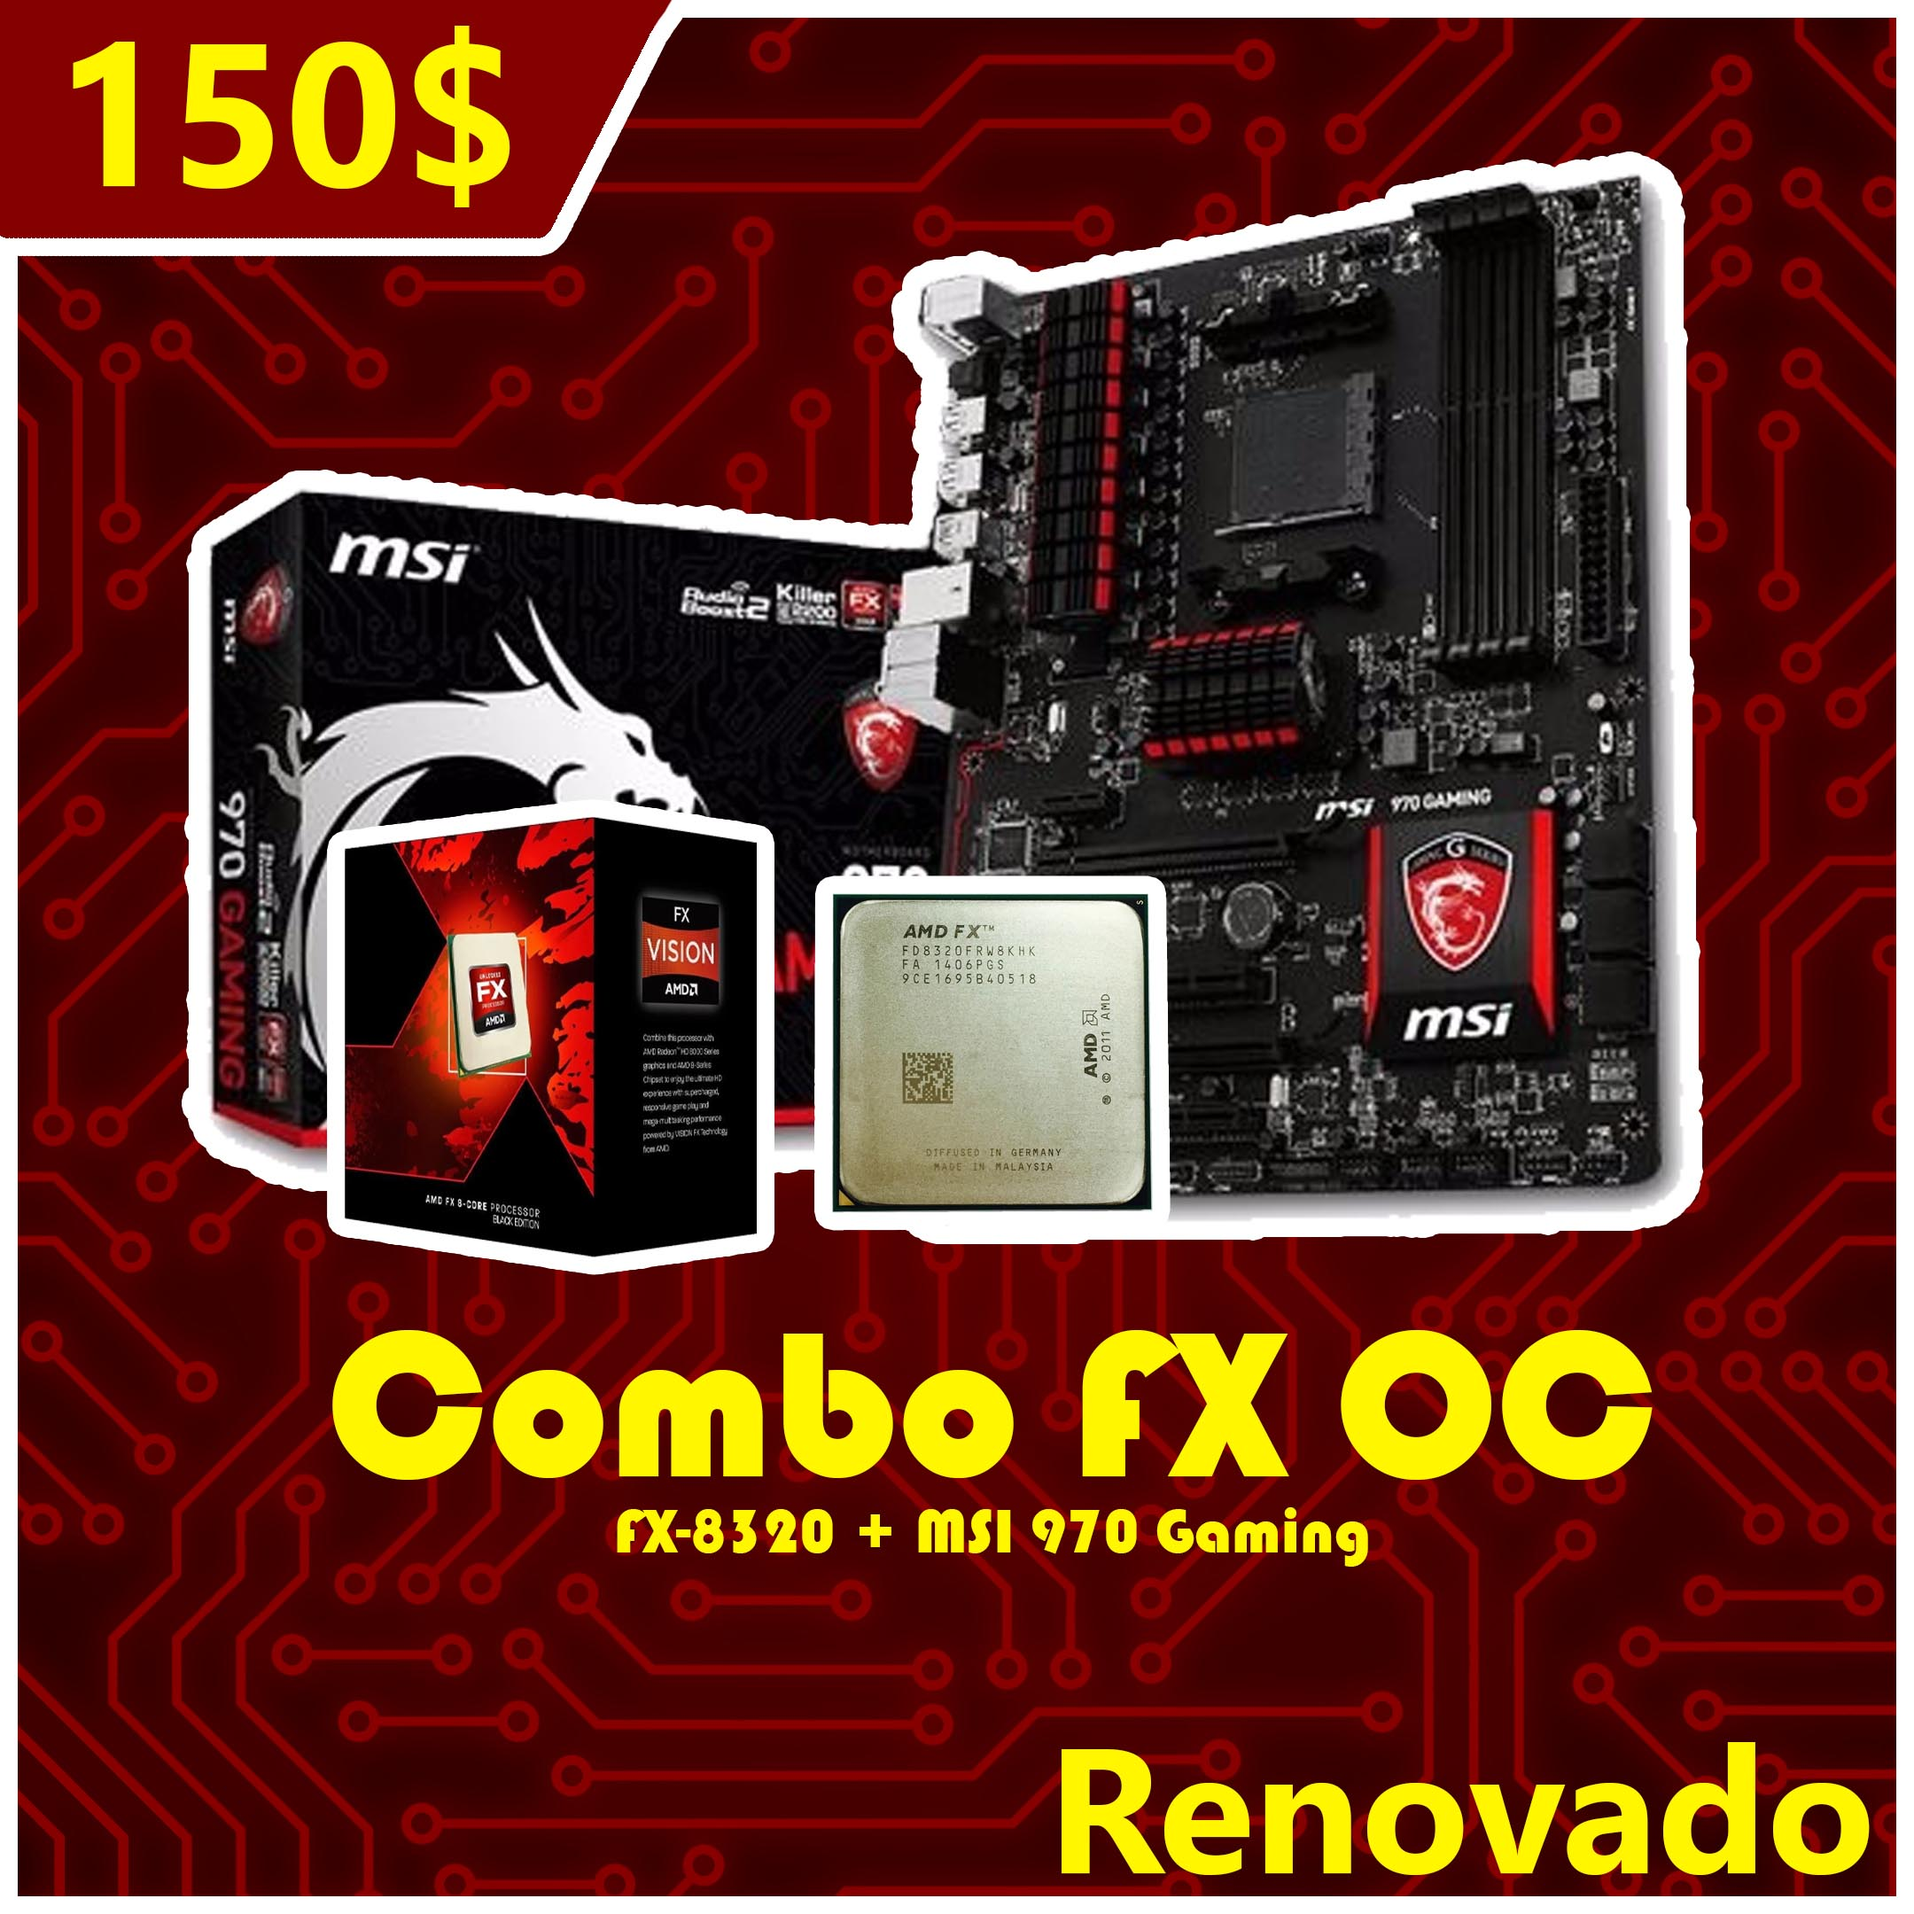
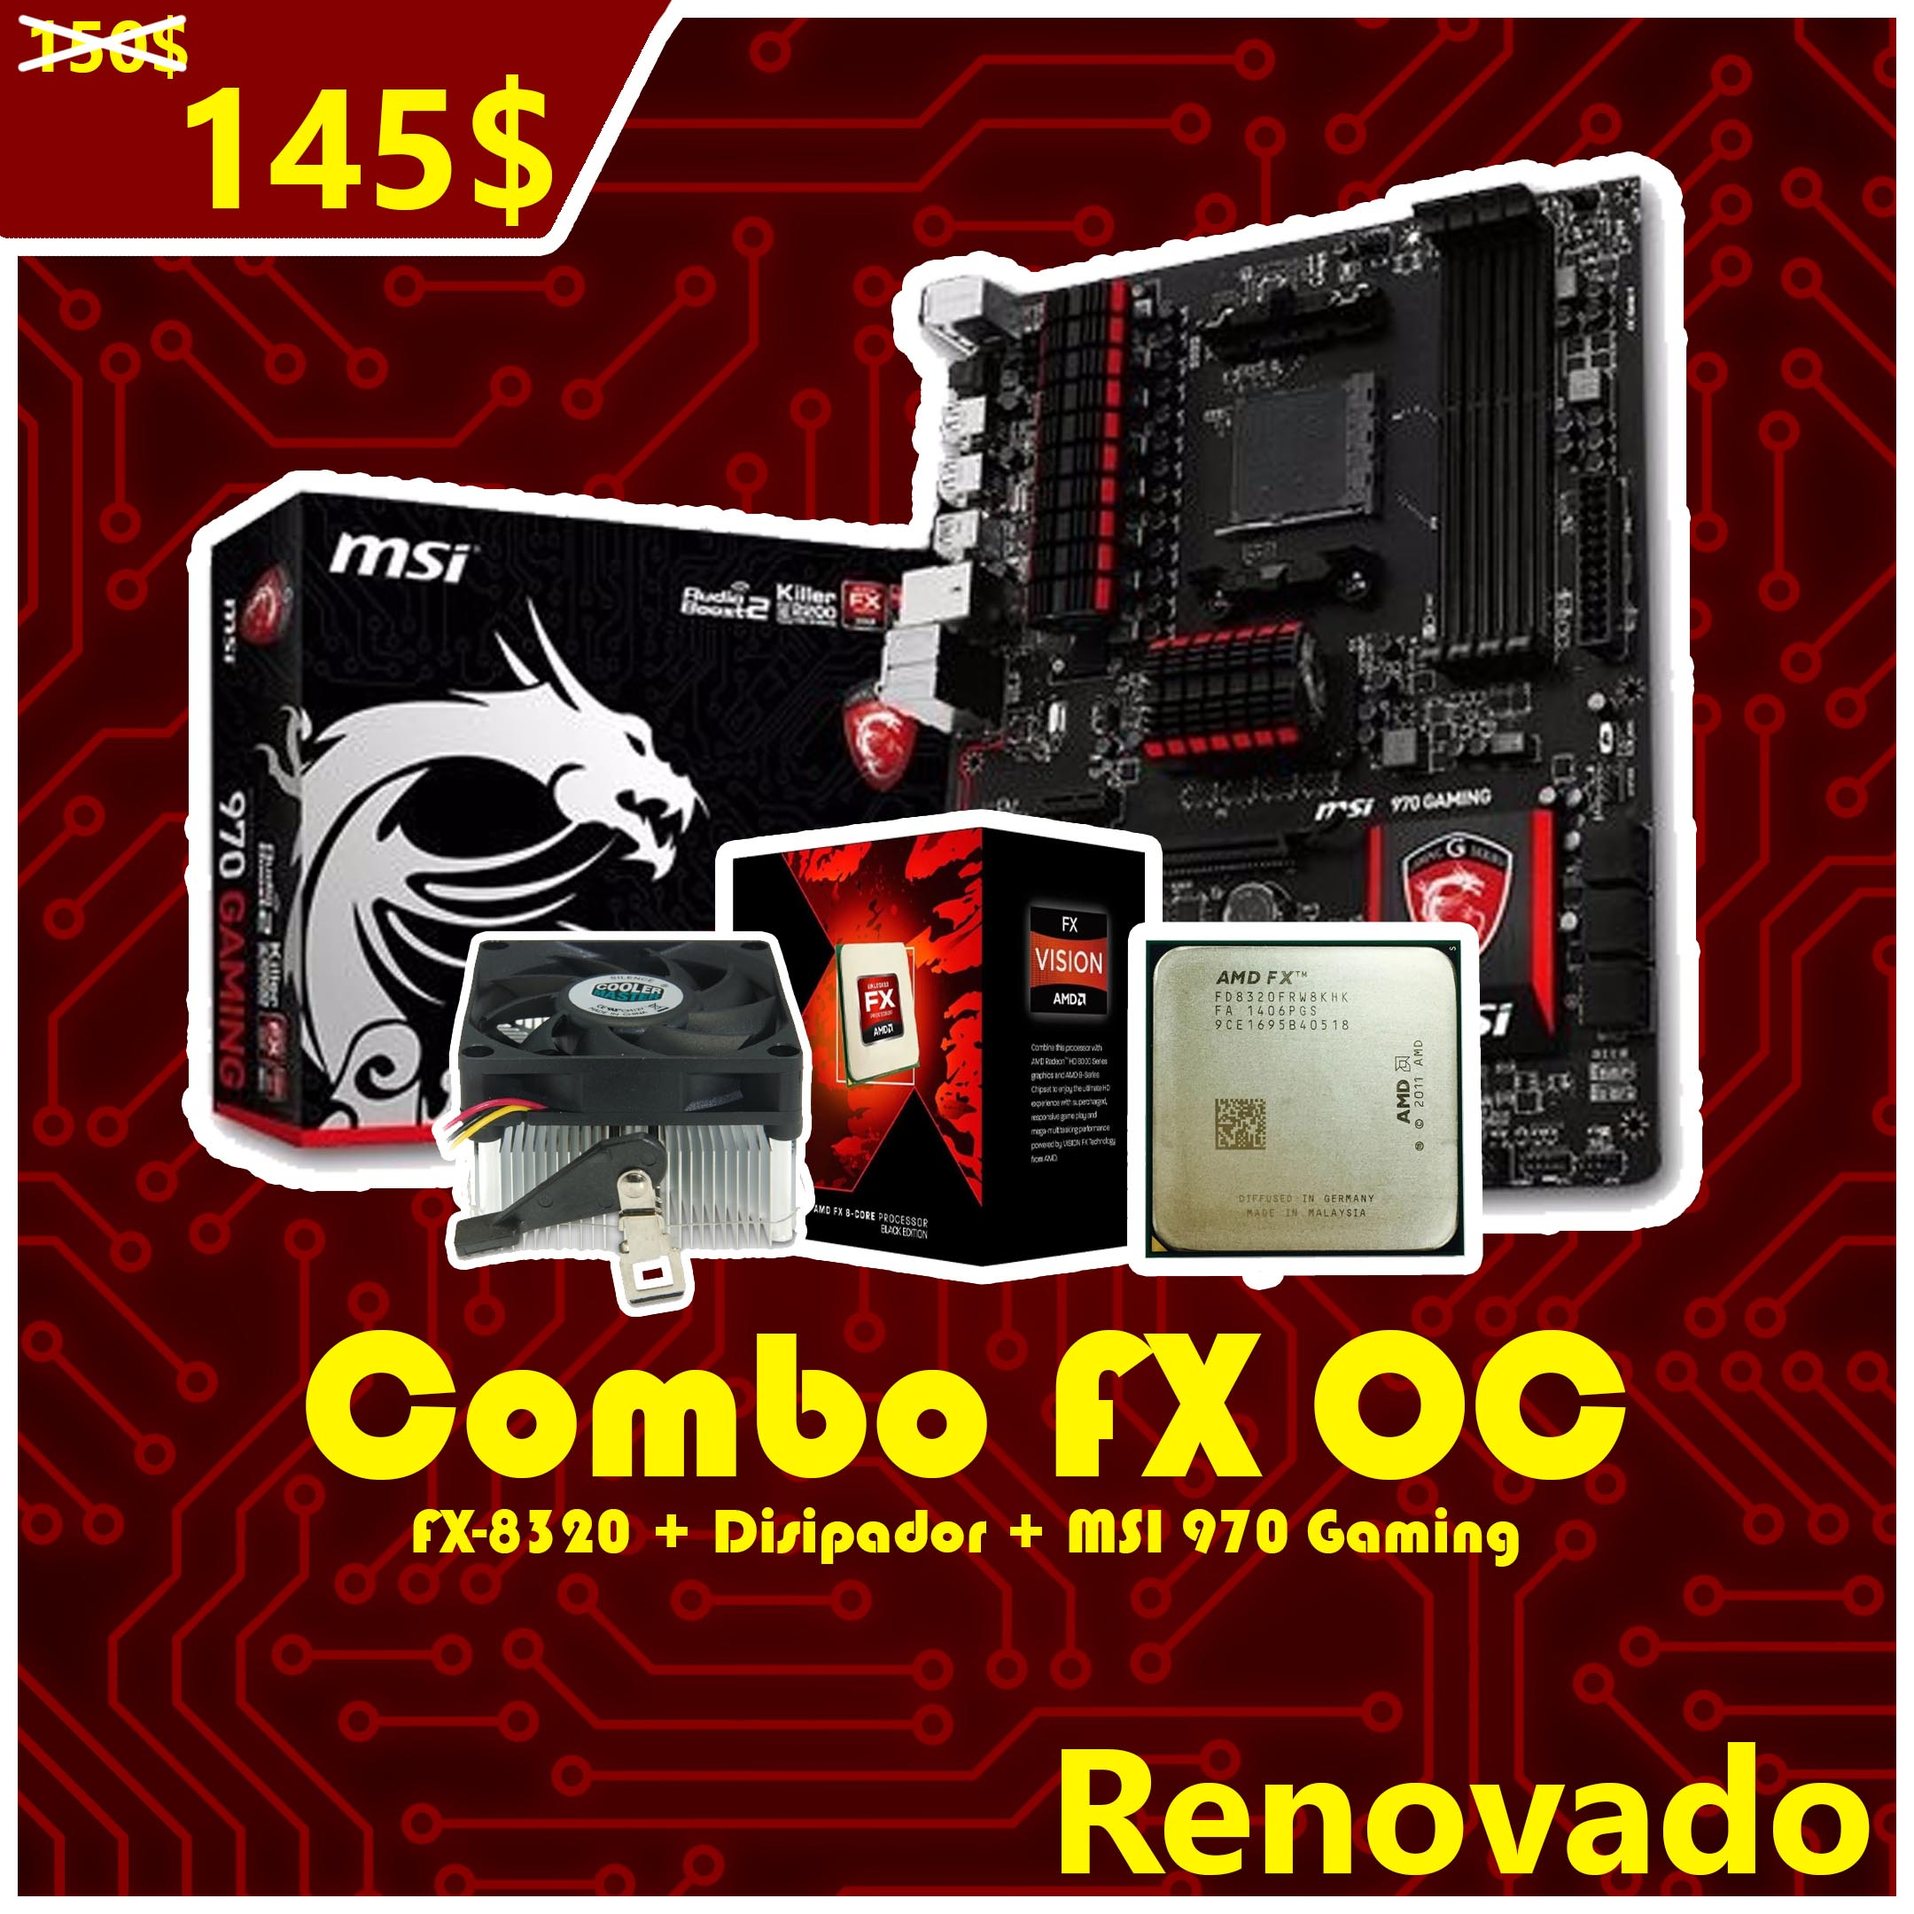
Add files via upload

Changed region(s): [[0.1551, 0.4032, 0.8685, 0.8375], [0.0, 0.0, 0.3102, 0.1241]]

diff --git a/tienda.html b/tienda.html
@@ -43,9 +43,9 @@
         </div>
 
         <div class="col-md-3">
-          <a class="portfolio-item" style="background-image: url(img/portfolio-2.11.jpg);" href="https://www.facebook.com/marketplace/item/4824779864293334/">
+          <a class="portfolio-item" style="background-image: url(img/portfolio-2.11.jpg);" href="https://www.facebook.com/marketplace/item/584427409969789/">
             <div class="details">
-              <h4>Combo FX + MSI 970 + 8GB RAM (190$)</h4>
+              <h4>Combo FX + MSI 970 + 8GB RAM (185$)</h4>
               <span>FX-8320 @3.5GHz 8-Core</span>
               <span>MSI 970 Gaming</span>
               <span>8GB RAM DDR3 1333MHz</span>
@@ -55,9 +55,9 @@
         </div>
 
         <div class="col-md-3">
-          <a class="portfolio-item" style="background-image: url(img/portfolio-2.1.jpg);" href="https://wa.me/p/4929994107099490/584245022292">
+          <a class="portfolio-item" style="background-image: url(img/portfolio-2.1.jpg);" href="https://www.facebook.com/marketplace/item/1013762535952788/">
             <div class="details">
-              <h4>Combo FX + MSI 970(150$)</h4>
+              <h4>Combo FX + MSI 970 (145$)</h4>
               <span>FX-8320 @3.5GHz 8-Core</span>
               <span>MSI 970 Gaming</span>
               <span>Incluye cajas y accesorios</span>
@@ -73,7 +73,7 @@
         </div>
 
         <div class="col-md-3">
-          <a class="portfolio-item" style="background-image: url(img/portfolio-2.jpg);" href="https://wa.me/message/VRY6V5JWBTQNH1">
+          <a class="portfolio-item" style="background-image: url(img/portfolio-2.jpg);" href="https://www.facebook.com/marketplace/item/1234830707345823/">
             <div class="details">
               <h4>Pentium G620 (7$)</h4>
               <span>Socket LGA1155</span>
@@ -92,7 +92,7 @@
         </div>
 
         <div class="col-md-3">
-          <a class="portfolio-item" style="background-image: url(img/portfolio-3.jpg);" href="https://wa.me/p/5335270289903517/584245022292">
+          <a class="portfolio-item" style="background-image: url(img/portfolio-3.jpg);" href="https://www.facebook.com/marketplace/item/469308681536381/">
             <div class="details">
               <h4>Memoria RAM DDR3 4GB (20$)</h4>
               <span>DDR3 DIMM</span>
@@ -103,7 +103,7 @@
         </div>
 
         <div class="col-md-3">
-          <a class="portfolio-item" style="background-image: url(img/portfolio-4.jpg);" href="https://wa.me/p/5644853072194831/584245022292">
+          <a class="portfolio-item" style="background-image: url(img/portfolio-4.jpg);" href="https://www.facebook.com/marketplace/item/574715930756475/">
             <div class="details">
               <h4>Memoria RAM DDR3 4GB (22$)</h4>
               <span>DDR3 SODIMM</span>
@@ -112,25 +112,26 @@
             </div>
           </a>
         </div>
-<!--
+
         <div class="container wow fadeInUp">
         <div class="row">
         <div class="col-md-12">
-          <p class="section-description">Fuentes de Poder:</p>
+          <p class="section-description">Monitores:</p>
           </div>
         </div>
 
         <div class="col-md-3">
-          <a class="portfolio-item" style="background-image: url(img/portfolio-4.1.jpg);" href="https://www.facebook.com/marketplace/item/422874309446784/">
+          <a class="portfolio-item" style="background-image: url(img/portfolio-1.jpg);" href="https://www.facebook.com/marketplace/item/632203897821771/">
             <div class="details">
-              <h4>Fuente de Poder 500W (25$)</h4>
-              <span>Marca CoolerMaster</span>
-              <span>Excelente calidad</span>
-              <span>CPU 4+4 Pines</span>
-              <span>PCIe 6 Pines</span>
+              <h4>Monitor TV 24" (60$)</h4>
+              <span>Marca Toshiba</span>
+              <span>24 Pulgadas</span>
+              <span>Entradas HDMI, VGA, RCA y mas</span>
+              <span>Usado</span>
             </div>
           </a>
         </div>
+        <!--
         <div class="container wow fadeInUp">
         <div class="row">
         <div class="col-md-12">
@@ -144,16 +145,6 @@
         <div class="col-md-12">
           <p class="section-description">Disipadores y Ventiladores:</p>
           </div>
-        </div>
-
-        <div class="col-md-3">
-          <a class="portfolio-item" style="background-image: url(img/portfolio-8.2.jpg);" href="https://www.facebook.com/marketplace/item/342805484495129/">
-            <div class="details">
-              <h4>Disipador Stock Intel (7.5$)</h4>
-              <span>TDP >60W</span>
-              <span>SOLO para Socket LGA</span>
-            </div>
-          </a>
         </div>
 
         <div class="col-md-3">
@@ -185,14 +176,33 @@
             </div>
           </a>
         </div>
-<!--
+
         <div class="container wow fadeInUp">
         <div class="row">
         <div class="col-md-12">
-          <p class="section-description">Cases o Gabinetes:</p>
+          <p class="section-description">Otros productos:</p>
           </div>
         </div>
-      -->
+
+        <div class="col-md-3">
+          <a class="portfolio-item" style="background-image: url(img/portfolio-9.jpg);" href="https://www.facebook.com/marketplace/item/571393494448153/">
+            <div class="details">
+              <h4>Lector CD/DVD (1.2$)</h4>
+              <span>SATA o IDE</span>
+              <span>Usadas</span>
+            </div>
+          </a>
+        </div>
+
+        <div class="col-md-3">
+          <a class="portfolio-item" style="background-image: url(img/portfolio-10.jpg);" href="https://www.facebook.com/marketplace/item/1890176141185738/">
+            <div class="details">
+              <h4>Cable SATA (1.5$)</h4>
+              <span>30CM</span>
+            </div>
+          </a>
+        </div>
+
 
 <!--
       <div class="container wow fadeInUp">
